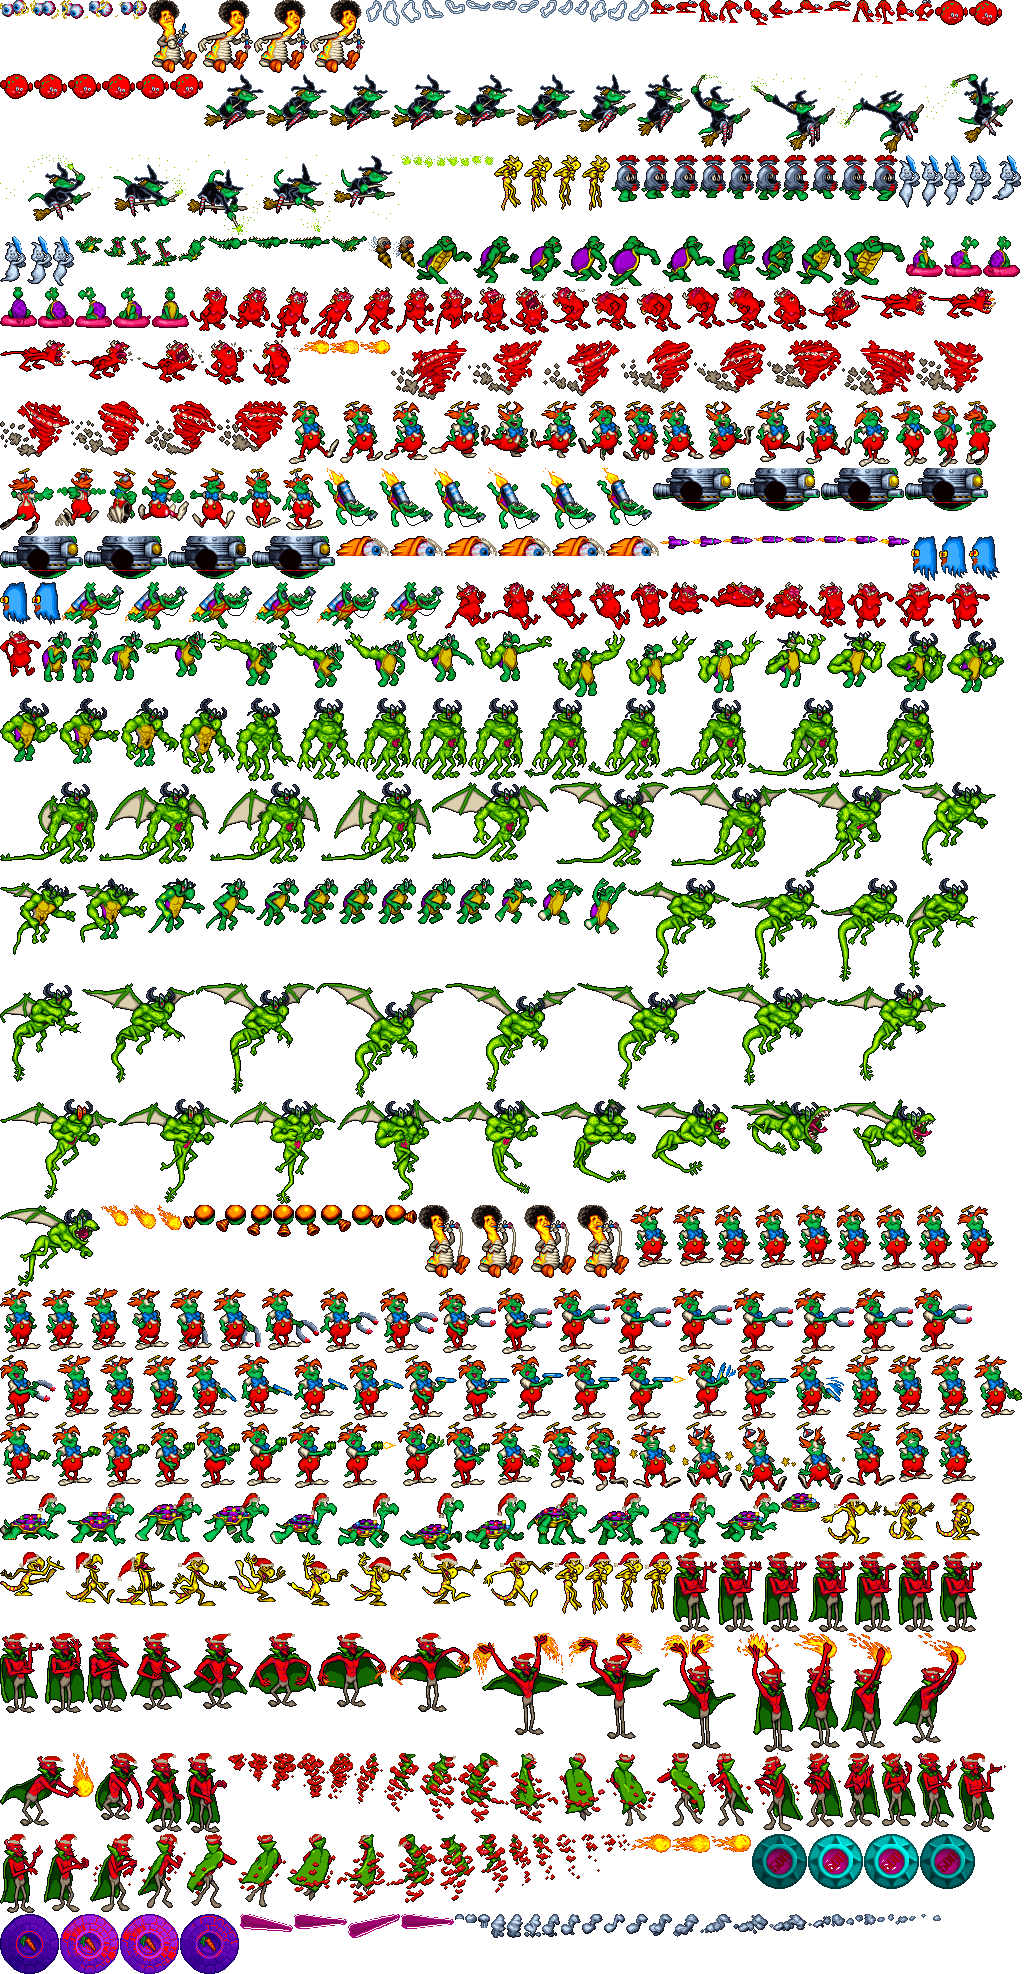
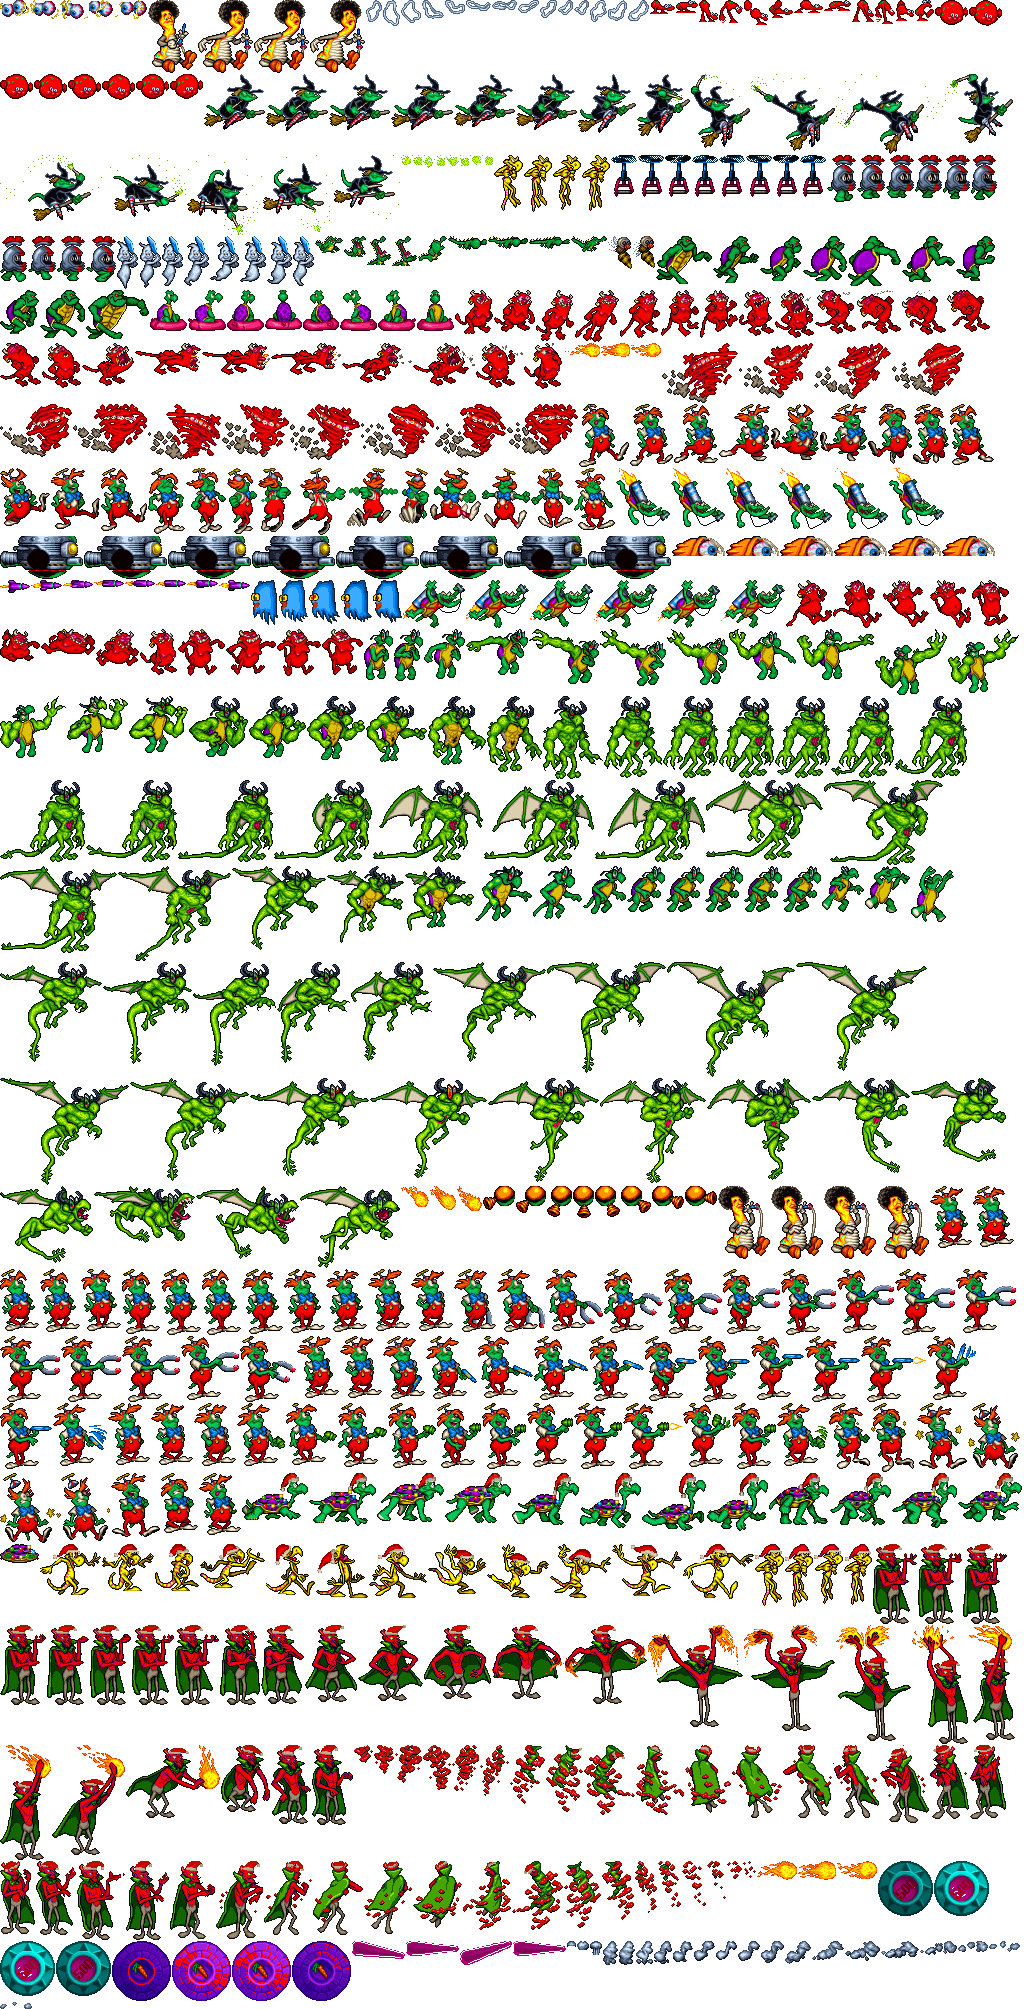
Floating lizards drop their copters: hang on and fly
As in JJ2: a floating lizard shot down leaves its copter hovering; touch
it to fly for 279 ticks on the original's flying model (Up climbs, Down
sinks, Jump lets go). Snow Bunnies' last cliff is crossed this way.

Claude-Session: https://claude.ai/code/session_014VrjeuzQF9z1CDhmbTuLih

diff --git a/src/player.js b/src/player.js
@@ -12,6 +12,9 @@ const KICK_WINDUP = 8;   // tuned: Spaz's and Lori's kicks
 const KICK_END = 30;
 // Airboard speeds (tuned): across, across holding Run, and up or down.
 const BOARD = { walk: 5, run: 7, climb: 3 };
+// The original's flying model (Jazz2 Resurrection's legacy measurements),
+// which the lizard copter shares.
+const COPTER = { rise: 0.25, maxRise: 32, brake: 0.75, brakeHeld: 0.25, descent: 1.0625, fall: 0.0625, maxFall: 12 };
 // The frog's top speed (Resurrection: the dizzy speed).
 const FROG_SPEED = 2.5;
 
@@ -59,7 +62,7 @@ export class Player {
       stomping: false, special: 0, rush: 0, celebrate: false,
       pole: null, poleT: 0, poleCool: 0, springLock: 0, warpLock: null,
       crouchT: 0, superJump: false, shield: 0, armor: 0, shieldType: 'fire', pushing: 0, dash: 0, jumpCut: false,
-      hang: null, hangCool: 0, board: false, noFire: false, frog: false, morph: 0, morphDir: null, tongue: 0, tongueHit: null, birdForm: false, swimming: false, floatUp: false, inTube: 0, doubleJumped: false, platform: null, launched: false,
+      hang: null, hangCool: 0, board: false, noFire: false, frog: false, morph: 0, morphDir: null, tongue: 0, tongueHit: null, birdForm: false, copter: 0, swimming: false, floatUp: false, inTube: 0, doubleJumped: false, platform: null, launched: false,
       dead: false, deadTimer: 0, anim: 'idle', animTime: 0, skid: 0, idleTime: 0, weaponShown: 0, djWindow: 0, rfBlast: 0, rfDir: 0, dizzy: 0, aim: null, fastFeet: 0,
     });
   }
@@ -210,7 +213,10 @@ export class Player {
     else if (this.jumpBuffer > 0) this.jumpBuffer--;
     if (this.surfaceGrace > 0 && !this.swimming) this.surfaceGrace--;
     const onPlatform = this.onGround && level.platform(Math.floor(this.cx / TILE), Math.floor((this.y + this.h + 1) / TILE));
-    if (this.special === 0 && !this.swimming && !this.board) {
+    // Hanging from a lizard's copter: Jump lets go (no jump, no ears).
+    const holding = this.copter > 0;
+    if (holding && controlled && input.pressed('jump')) { this.copter = 0; this.jumpBuffer = 0; }
+    if (this.special === 0 && !this.swimming && !this.board && !holding) {
       if (this.jumpBuffer > 0 && input.held('down') && onPlatform) {
         this.dropThrough = 10;
         this.jumpBuffer = 0;
@@ -288,6 +294,17 @@ export class Player {
         : this.cy - level.water < 20;
       if (surf) this.surfaceGrace = 10;
       if (input.pressed('jump') && surf) this.surfaceLeap(audio);
+    } else if (this.copter > 0) {
+      // The lizard copter flies as the original's flying carrot does: Up
+      // climbs, Down sinks at a flat rate, otherwise a climb brakes to a
+      // stop and then sinks slowly.
+      this.copter--;
+      const vdir = controlled ? (input.held('down') ? 1 : 0) - (input.held('up') ? 1 : 0) : 0;
+      if (vdir < 0) this.vy = Math.max(this.vy - COPTER.rise, -COPTER.maxRise);
+      else if (vdir > 0) this.vy = COPTER.descent;
+      else if (this.vy < 0) this.vy = Math.min(this.vy + (input.held('jump') ? COPTER.brakeHeld : COPTER.brake), 0);
+      else this.vy = Math.min(this.vy + COPTER.fall, COPTER.maxFall);
+      this.stomping = false; this.hovering = false; this.jumping = false;
     } else if (this.floatUp) {
       // Updraft: carried up to 8 px/tick (original float-up speed).
       this.vy = Math.max(this.vy - 0.5, -8);
@@ -315,9 +332,9 @@ export class Player {
         : PHYS.fallGravity;
       this.vy = Math.min(this.vy, PHYS.maxFall);
     }
-    audio.hover(this.hovering);
+    audio.hover(this.hovering || this.copter > 0);
     // Only the gravity branch spends the launch tick; any other mode ends it.
-    if (this.special > 0 || this.swimming || this.floatUp || this.stomping || this.hovering) this.launched = false;
+    if (this.special > 0 || this.swimming || this.floatUp || this.stomping || this.hovering || this.copter > 0) this.launched = false;
 
     this.collide(game);
     if (level.areas) this.areaPush(level);

diff --git a/src/entities.js b/src/entities.js
@@ -335,6 +335,47 @@ export class Dragonfly extends Enemy {
   }
 
   sprite(art) { return this.anim(art, 'dragonfly', 3); }
+
+  // A floating lizard shot down leaves its copter behind.
+  kill(game) {
+    if (this.dead) return;
+    super.kill(game);
+    if (this.skin === 'lizardFloat' || this.skin === 'lizardFloatXmas') game.props.push(new Copter(this.cx, this.y, this.skin === 'lizardFloatXmas'));
+  }
+}
+
+// A floating lizard's copter (JJ2): the lizard falls, the copter hovers on
+// a while. Touch it to hang on and fly for the original's 279 ticks; Jump
+// lets go. Then it flies off.
+export const LIZARD_COPTER_TICKS = 279;
+export class Copter {
+  constructor(cx, y, xmas) {
+    Object.assign(this, { kind: 'copter', xmas, t: 0, held: false, gone: 0, dead: false });
+    this.w = 30; this.h = 24; this.x = cx - this.w / 2; this.y = y; this.baseY = y;
+  }
+
+  get cx() { return this.x + this.w / 2; }
+
+  update(game) {
+    this.t++;
+    const p = game.player;
+    if (this.held) {
+      if (p.copter > 0 && !p.dead) { this.x = p.cx - this.w / 2; this.y = p.y - this.h + 6; return; }
+      this.held = false; this.gone = 1;
+    }
+    if (this.gone) { this.y -= 2; if (++this.gone > 120) this.dead = true; return; }
+    this.y = this.baseY + Math.sin(this.t / 12) * 4;
+    if (this.t > 600) { this.gone = 1; return; }
+    if (p.dead || p.copter > 0 || p.board || p.birdForm || p.frog || p.pole || p.hang || !overlap(this, p)) return;
+    Object.assign(p, { copter: LIZARD_COPTER_TICKS, vy: Math.min(p.vy, 0), onGround: false, hovering: false, stomping: false, jumping: false });
+    this.held = true;
+    game.audio.play('select');
+  }
+
+  draw(r) {
+    const a = r.art.jj2e.anims[this.xmas ? 'lizardCopterXmas' : 'lizardCopter'];
+    if (a) r.sprite(frameAt(a, this.t, a.speed || 3), this.cx, this.y + this.h);
+  }
 }
 
 // True when no solid tile lies on the straight line between two points.

diff --git a/src/game.js b/src/game.js
@@ -582,7 +582,7 @@ export class Game {
     const p = this.player;
     if (p.dead) return;
     p.board = false;
-    p.frog = false; p.morph = 0; p.birdForm = false;
+    p.frog = false; p.morph = 0; p.birdForm = false; p.copter = 0;
     if (this.bird) this.bird.flyAway();
     // Party: knocked out (falling off the world), back in 10 s.
     if (this.party) { this.party.knockOut(this); return; }
@@ -706,6 +706,7 @@ export class Game {
     this.pickups = this.pickups.filter((k) => !k.taken);
     this.particles = this.particles.filter((q) => q.life > 0);
     this.effects = this.effects.filter((fx) => !fx.dead);
+    if (this.props.some((pr) => pr.dead)) this.props = this.props.filter((pr) => !pr.dead);
     this.debris = this.debris.filter((d) => d.life > 0);
     this.popups = this.popups.filter((q) => --q.life > 0);
     this.popups.forEach((q) => { q.y -= 0.6; });

diff --git a/src/render.js b/src/render.js
@@ -553,7 +553,7 @@ export class Renderer {
     const speed = Math.abs(p.vx);
     if (p.dead) return 'knockdown';
     if (p.celebrate) return 'victory';
-    if (p.pole || p.hang) return 'spring';
+    if (p.pole || p.hang || p.copter > 0) return 'spring';
     if (p.knock > 0) return 'hurt';
     if (p.board) return 'airboard';
     if (p.dizzy > 0) return 'dizzy';
